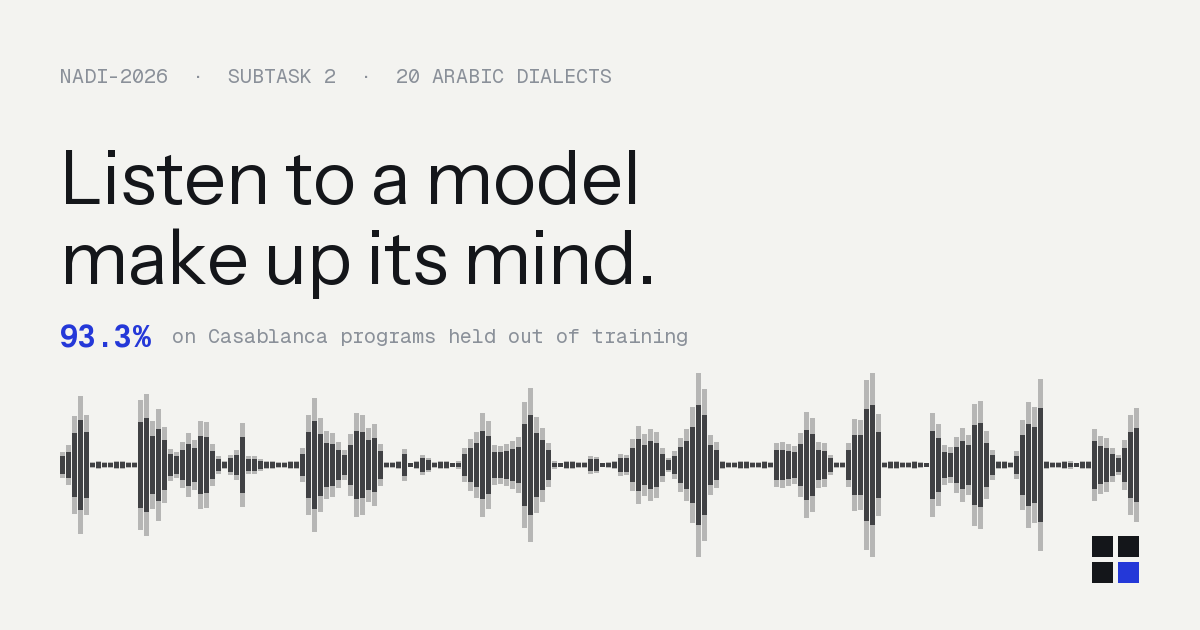
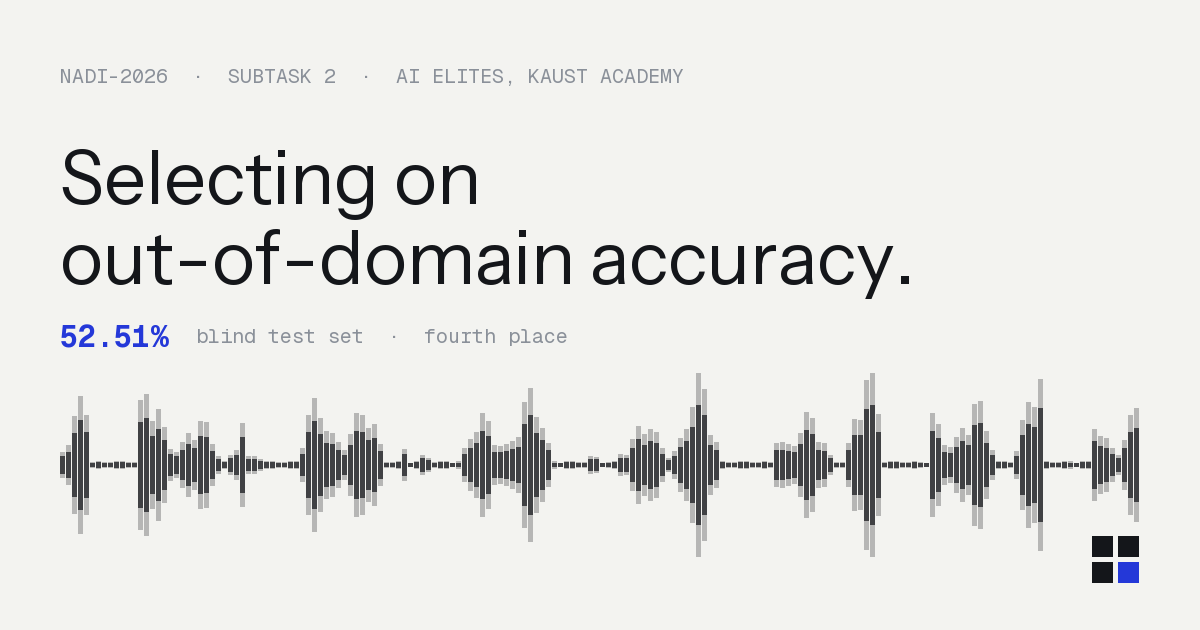
Update landing page to reflect NADI-2026 results and clarify out-of-domain performance metrics.
- Revise description, headings, and metadata to emphasize cross-domain spoken Arabic dialect identification and competition placement.
- Adjust typography and layout for improved readability.
- Add detailed Methodology and updated Result sections with accurate figures.
- Remove outdated dynamic result rendering; finalize static figures for consistency with the submission.
- Enhance Open Graph and Twitter metadata to align with the new focus.

diff --git a/site/index.html b/site/index.html
@@ -4,7 +4,7 @@
 <meta charset="utf-8">
 <meta name="viewport" content="width=device-width, initial-scale=1">
 <title>Arabic Spoken Dialect Identification — NADI-2026</title>
-<meta name="description" content="A 20-way Arabic spoken dialect identifier for NADI-2026 Subtask 2. Press play and watch the model decide: 93.3% on Casablanca programs held out of training, 90.9% on ADI-20 validation.">
+<meta name="description" content="AI Elites at NADI-2026 Subtask 2: country-level spoken Arabic dialect identification under domain shift. Selecting on out-of-domain accuracy. 52.51% on the blind test set, fourth place.">
 <meta name="author" content="KAUST Academy">
 <meta name="color-scheme" content="light">
 <meta name="theme-color" content="#F3F3F0">
@@ -12,16 +12,16 @@
 
 <meta property="og:type" content="website">
 <meta property="og:site_name" content="Arabic Spoken Dialect Identification">
-<meta property="og:title" content="Listen to a model make up its mind">
-<meta property="og:description" content="Twenty Arabic dialects, one speech encoder. 93.3% on Casablanca programs held out of training.">
+<meta property="og:title" content="Selecting on out-of-domain accuracy">
+<meta property="og:description" content="Cross-domain spoken Arabic dialect identification. 52.51% on the blind test set, fourth place at NADI-2026 Subtask 2.">
 <meta property="og:url" content="https://asdi-sigma.vercel.app/">
 <meta property="og:image" content="https://asdi-sigma.vercel.app/og.png">
 <meta property="og:image:width" content="1200">
 <meta property="og:image:height" content="630">
-<meta property="og:image:alt" content="A speech waveform drawn in ink on paper, above the title 'Listen to a model make up its mind'.">
+<meta property="og:image:alt" content="A speech waveform drawn in ink on paper, above the title 'Selecting on out-of-domain accuracy'.">
 <meta name="twitter:card" content="summary_large_image">
-<meta name="twitter:title" content="Listen to a model make up its mind">
-<meta name="twitter:description" content="Twenty Arabic dialects, one speech encoder. 93.3% on held-out programs.">
+<meta name="twitter:title" content="Selecting on out-of-domain accuracy">
+<meta name="twitter:description" content="Cross-domain spoken Arabic dialect identification. 52.51% on the blind test, fourth place.">
 <meta name="twitter:image" content="https://asdi-sigma.vercel.app/og.png">
 
 <link rel="icon" href="favicon.svg" type="image/svg+xml">
@@ -95,7 +95,8 @@ header{position:sticky;top:0;z-index:30;background:color-mix(in srgb,var(--paper
 
 /* ---------- hero ---------- */
 .hero{padding:var(--s8) 0 var(--s6);position:relative}
-h1{font-weight:700;font-size:clamp(2.5rem,6.6vw,4.6rem);line-height:.96;letter-spacing:-.042em;margin:0 0 var(--s5);max-width:15ch}
+h1{font-weight:600;font-size:clamp(1.45rem,2.9vw,2.15rem);line-height:1.24;
+  letter-spacing:-.022em;margin:0 0 var(--s5);max-width:44ch}
 .lede{font-size:1.1rem;line-height:1.56;color:var(--ink-2);max-width:54ch;margin:0 0 var(--s6)}
 .lede b{color:var(--ink-solid);font-weight:600}
 .kicker{display:flex;align-items:center;gap:10px;font-family:var(--mono);font-size:.68rem;letter-spacing:.18em;text-transform:uppercase;color:var(--ink-3);margin:0 0 var(--s5)}
@@ -194,6 +195,30 @@ code{font-family:var(--mono);font-size:.88em;background:var(--paper-2);padding:1
 .step h3{font-weight:600;font-size:1.24rem;letter-spacing:-.022em;margin:0 0 9px}
 .step p{margin:0;font-size:.9rem;line-height:1.62;color:var(--ink-2)}
 
+.part{border-top:1px solid var(--rule);padding:var(--s6) 0 var(--s2)}
+.dl{margin:0 0 var(--s4);display:grid;grid-template-columns:11rem 1fr;gap:10px var(--s5)}
+@media(max-width:640px){.dl{grid-template-columns:1fr;gap:2px var(--s3)}.dl dd{margin-bottom:10px}}
+.dl dt{font-family:var(--mono);font-size:.72rem;color:var(--ink-solid);padding-top:2px}
+.dl dd{margin:0;color:var(--ink-2);font-size:.92rem;line-height:1.6}
+.alsofig{font-family:var(--mono);font-size:.74rem;color:var(--ink-3);margin:var(--s5) 0 0;
+  line-height:2;letter-spacing:.02em}
+.alsofig b{color:var(--ink-solid);font-weight:500;font-variant-numeric:tabular-nums}
+.alsofig span{font-size:.62rem;letter-spacing:.08em;text-transform:uppercase}
+.part h3{font-weight:700;font-size:1.4rem;letter-spacing:-.028em;margin:0 0 var(--s4);
+  display:flex;align-items:baseline;gap:12px}
+.part .pn{font-family:var(--mono);font-size:.68rem;font-weight:400;letter-spacing:.14em;
+  color:var(--ink-3)}
+.part p{color:var(--ink-2);line-height:1.62;margin:0 0 var(--s4);max-width:70ch;font-size:.95rem}
+.part p b{color:var(--ink-solid);font-weight:600}
+.part sup{font-size:.7em}
+.sh{font-weight:700;font-size:1.4rem;letter-spacing:-.028em;margin:var(--s7) 0 var(--s4)}
+.tw{overflow-x:auto;margin:var(--s5) 0}
+.tag{font-family:var(--mono);font-size:.6rem;letter-spacing:.08em;text-transform:uppercase;
+  color:var(--ink-3);margin-left:8px;white-space:nowrap}
+td.ind{padding-left:var(--s5);color:var(--ink-3)}
+tr.win td{color:var(--ink-solid);font-weight:600}
+tr.win td.n{color:var(--say-solid)}
+
 .figures{display:grid;grid-template-columns:1fr 1fr;gap:1px;background:var(--rule);
   border-top:1px solid var(--rule);border-bottom:1px solid var(--rule)}
 @media(max-width:720px){.figures{grid-template-columns:1fr}}
@@ -255,12 +280,18 @@ addEventListener('error',()=>document.documentElement.className='');
 <main class="wrap" id="top">
 
   <div class="hero">
-    <p class="kicker rv"><canvas id="kick"></canvas> Twenty Arabic dialects · one speech encoder</p>
-    <h1 class="rv">Listen to a model make up its mind.</h1>
-    <p class="lede rv">Press play and watch the probability separate as the audio arrives — spread across the Maghreb at first, then collapsing onto one country. It scores <b data-fig="ood">93.3%</b> on Casablanca programs held out of training, and <b data-fig="id">90.9%</b> on ADI-20 validation.</p>
+    <p class="kicker rv"><canvas id="kick"></canvas> NADI-2026 Subtask 2 · fourth place</p>
+    <h1 class="rv">Classify spoken Arabic into one of 11 country-level dialects under
+    cross-domain conditions, where the test set differs in domain and source from training
+    and development data.</h1>
+    <p class="lede rv">A secondary-domain development set is provided alongside the primary
+    one. The label space is the full 20-class inventory and admits no abstention — a system
+    scores over all twenty, while the blind set covers only a subset.</p>
     <div class="actions rv">
       <button class="btn" id="heroPlay">▶ Play a clip</button>
-      <a class="btn g" href="#method">How it works</a>
+      <a class="btn g" href="#method">Method</a>
+    </div>
+    <div class="heroSpec rv"><canvas id="heroSpec"></canvas></div>
     </div>
     <div class="heroSpec rv"><canvas id="heroSpec"></canvas></div>
   </div>
@@ -306,36 +337,98 @@ addEventListener('error',()=>document.documentElement.className='');
   <section id="method">
     <p class="eyebrow rv"><canvas class="emark"></canvas> Method</p>
     <h2 class="rv">How it was built.</h2>
-    <p class="sub rv">The hidden test set is broadcast speech, so broadcast speech is in the training mix — and the evaluation is arranged so that nothing the model was scored on could have leaked into what it learned from.</p>
-    <div class="steps">
-      <div class="step rv"><canvas class="stepc" data-mode="0"></canvas><span class="n">01</span><h3>Fine-tune</h3><p>An Arabic speech encoder is fine-tuned for 20-way dialect. The cues that identify a dialect sit in the middle layers, not just the last one, so every layer is weighted.</p></div>
-      <div class="step rv"><canvas class="stepc" data-mode="1"></canvas><span class="n">02</span><h3>Split honestly</h3><p>Casablanca is split by program, not by clip — clips from one broadcast share speakers and channel, so a clip-level split would leak. 80% trains, one half of the rest picks the checkpoint, and the last half is never looked at until the end.</p></div>
-      <div class="step rv"><canvas class="stepc" data-mode="2"></canvas><span class="n">03</span><h3>Keep it stable</h3><p>One optimizer, built once, with a learning-rate schedule that never restarts mid-run. That is most of what kept long runs from drifting.</p></div>
+    <p class="sub rv">The blind domain is unknown at development time, so in-domain accuracy
+    measures fit to the one domain the test set is known <i>not</i> to come from. Every decision
+    below is made on out-of-domain accuracy instead.</p>
+
+    <div class="part rv">
+      <h3><span class="pn">01</span>Literature review</h3>
+      <p>NADI ran as a text benchmark from 2020 and moved to speech in 2025, where ELYADATA won
+      with a Whisper-large-v3 encoder and attentive pooling at 79.8%. Robustness has been pursued
+      separately — voice conversion to normalise speaker identity, augmentation-based domain
+      diversification. What none of it settles is how well a development-time proxy predicts
+      blind cross-domain performance.</p>
+    </div>
+
+    <div class="part rv">
+      <h3><span class="pn">02</span>Data, preprocessing and augmentation</h3>
+      <dl class="dl">
+        <dt>ADI20-micro</dt>
+        <dd>67,015 training and 10,806 validation clips over 20 classes, balanced by duration
+        rather than clip count.</dd>
+        <dt>Casablanca</dt>
+        <dd>8 of the 20 classes, split at the <i>program</i> boundary rather than the clip
+        boundary, since clips from one program share a speaker and a recording chain. 10,899
+        clips join training; the rest is held out.</dd>
+        <dt>MADIS-5</dt>
+        <dd>Five macro-regions, never trained on — the only genuinely out-of-domain measurement
+        in the system.</dd>
+      </dl>
+      <p>Audio is decoded to 16 kHz mono with no voice-activity detection, loudness normalisation
+      or transcript filtering. Each batch is cropped to one duration drawn from {1, 2, 3, 5, 8,
+      12} seconds — the main robustness measure, since blind clip lengths are unknown — with
+      SpecAugment applied on top.</p>
+    </div>
+
+    <div class="part rv">
+      <h3><span class="pn">03</span>Modelling</h3>
+      <p>Three backbones, one architecture: encoder, mask-aware mean pooling, 20-way linear head.</p>
+      <div class="tw">
+      <table>
+        <caption>Top-1 accuracy (%), identical split and protocol. Casablanca is out-of-domain
+        here — no selection run trains on it. MADIS-5 is scored over five macro-regions.</caption>
+        <tr><th>backbone</th><th class="n">steps</th><th class="n">ADI20</th>
+            <th class="n">Casablanca</th><th class="n">MADIS-5</th></tr>
+        <tr><td>Whisper-small</td><td class="n">3.0k</td><td class="n">32.87</td>
+            <td class="n">36.21</td><td class="n">18.96</td></tr>
+        <tr><td>ADI-whisper-ADI20</td><td class="n">3.0k</td><td class="n">83.70</td>
+            <td class="n">83.74</td><td class="n">48.02</td></tr>
+        <tr><td>cohere-transcribe-arabic</td><td class="n">3.0k</td><td class="n">78.12</td>
+            <td class="n">81.39</td><td class="n g">80.22</td></tr>
+        <tr class="win"><td>cohere-transcribe-arabic</td><td class="n">5.2k</td>
+            <td class="n">90.52</td><td class="n">93.99</td><td class="n">75.99</td></tr>
+      </table>
+      </div>
+      <p>The criteria disagree: ADI-whisper-ADI20 leads on ADI20 by 5.6 points and trails on
+      MADIS-5 by 32, so in-domain accuracy would have rejected the encoder that generalises best.
+      LoRA collapses both backbones to about 16% on 20-way Casablanca, so the representation has
+      to be adapted by full fine-tuning.</p>
+      <p>Fine-tuning uses ADI20-micro plus the Casablanca training portion, resampled by
+      count(y)<sup>−0.5</sup>. The head trains alone for 500 steps, then the encoder unfreezes
+      with a linear re-warm-up; learning rates 2×10<sup>−3</sup> and 2×10<sup>−5</sup> on cosine
+      decay, batch 128, layer-mixing, 6,000 steps. At inference each clip is passed at full
+      length, mean-pooled, and assigned the argmax over twenty logits.</p>
     </div>
   </section>
 
   <section id="result">
     <p class="eyebrow rv"><canvas class="emark"></canvas> Result</p>
-    <h2 class="rv">What the final model scores.</h2>
-    <p class="sub rv">Trained on ADI-20 and 80% of the Casablanca programs. The remaining 20%
-    was split in half by program: one half chose the checkpoint, the other was held back and
-    never influenced training or selection. That held-back half is what the second figure is
-    measured on — different programs, different speakers, different channels.</p>
+    <h2 class="rv">52.51% on the blind test set. Fourth place.</h2>
+    <p class="sub rv">The evaluation sets degrade with distance from the training domain. That
+    ordering is the result.</p>
 
     <div class="figures rv">
       <div class="fig">
-        <div class="fv"><span id="figId">90.9</span><i>%</i></div>
-        <div class="fk">ADI-20 validation</div>
-        <div class="fn">In-domain. The corpus the model was trained on.</div>
+        <div class="fv"><span>91.54</span><i>%</i></div>
+        <div class="fk">ADI20-micro · in-domain</div>
+        <div class="fn">The corpus the model was trained on.</div>
       </div>
       <div class="fig">
-        <div class="fv"><span id="figOod">93.3</span><i>%</i></div>
-        <div class="fk">Casablanca, held-out programs</div>
-        <div class="fn">Programs excluded from training and from checkpoint selection.</div>
+        <div class="fv"><span>52.51</span><i>%</i></div>
+        <div class="fk">Blind test · official</div>
+        <div class="fn">Undisclosed sources, undisclosed subset of the label space.</div>
       </div>
     </div>
 
-    <p class="spec rv" id="spec">20 classes · 878 test clips · accuracy, 20-way</p>
+    <p class="alsofig rv">Casablanca <b>92.97</b> <span>in-corpus</span>
+      &nbsp;·&nbsp; MADIS-5 <b>73.10</b> <span>out-of-domain, 5-way</span>
+      &nbsp;·&nbsp; C<sub>avg</sub> <b>0.046 → 0.11</b></p>
+
+    <p class="sub rv">Of the 39.03-point gap, <b>18.44</b> is explained by leaving the training
+    domain and <b>20.59</b> was invisible to every development signal available. A corpus stops
+    being a valid selection signal the moment it enters training.</p>
+
+    <p class="spec rv" id="spec">20-class output space · blind set covers 11 · top-1 accuracy</p>
   </section>
 
 </main>
@@ -771,26 +864,12 @@ async function envelopeOf(url,buckets){
 async function hydrate(){
   const base = 'data/';
   const got = await Promise.all(
-    [grab(base+'demo.json'), grab(base+'results.json')]);
-  const demo = got[0], results = got[1];
+    [grab(base+'demo.json')]);
+  const demo = got[0];
 
-  /* ---- the two figures, and the hero numbers ---- */
-  if(results && results.headline){
-    const h = results.headline;
-    const set = function(id, v){ const el = document.getElementById(id);
-      if(el) el.textContent = v.toFixed(1); };
-    set('figId', h.in_domain);
-    set('figOod', h.broadcast);
-    if(results.n_classes && results.n_test_clips){
-      const sp = document.getElementById('spec');
-      if(sp) sp.textContent = results.n_classes + ' classes \u00b7 ' +
-        results.n_test_clips + ' test clips \u00b7 accuracy, ' + results.n_classes + '-way';
-    }
-    document.querySelectorAll('[data-fig]').forEach(function(el){
-      if(el.dataset.fig === 'ood') el.textContent = h.broadcast.toFixed(1) + '%';
-      if(el.dataset.fig === 'id') el.textContent = h.in_domain.toFixed(1) + '%';
-    });
-  }
+  /* The figures in the Result section are taken from the paper, not from
+     results/runs.csv -- runs.csv logs the development campaign, while the page
+     reports the submitted system. They are intentionally static. */
 
   /* ---- demo clips ---- */
   if(demo && demo.clips && demo.clips.length){
